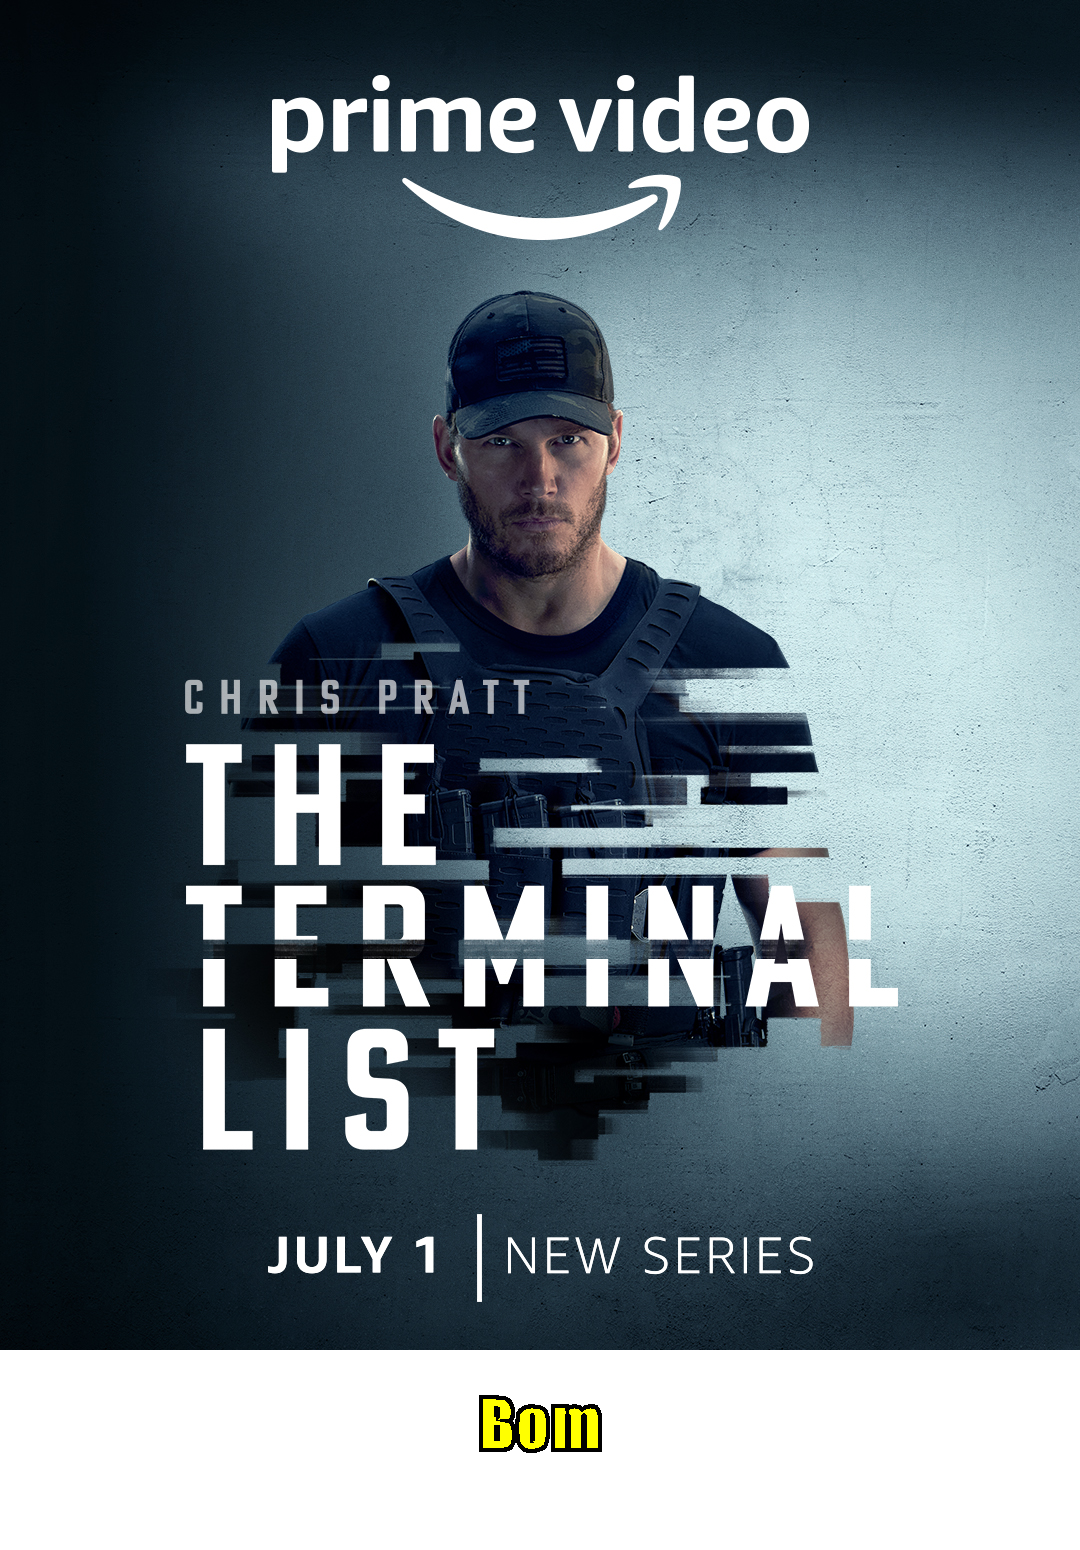
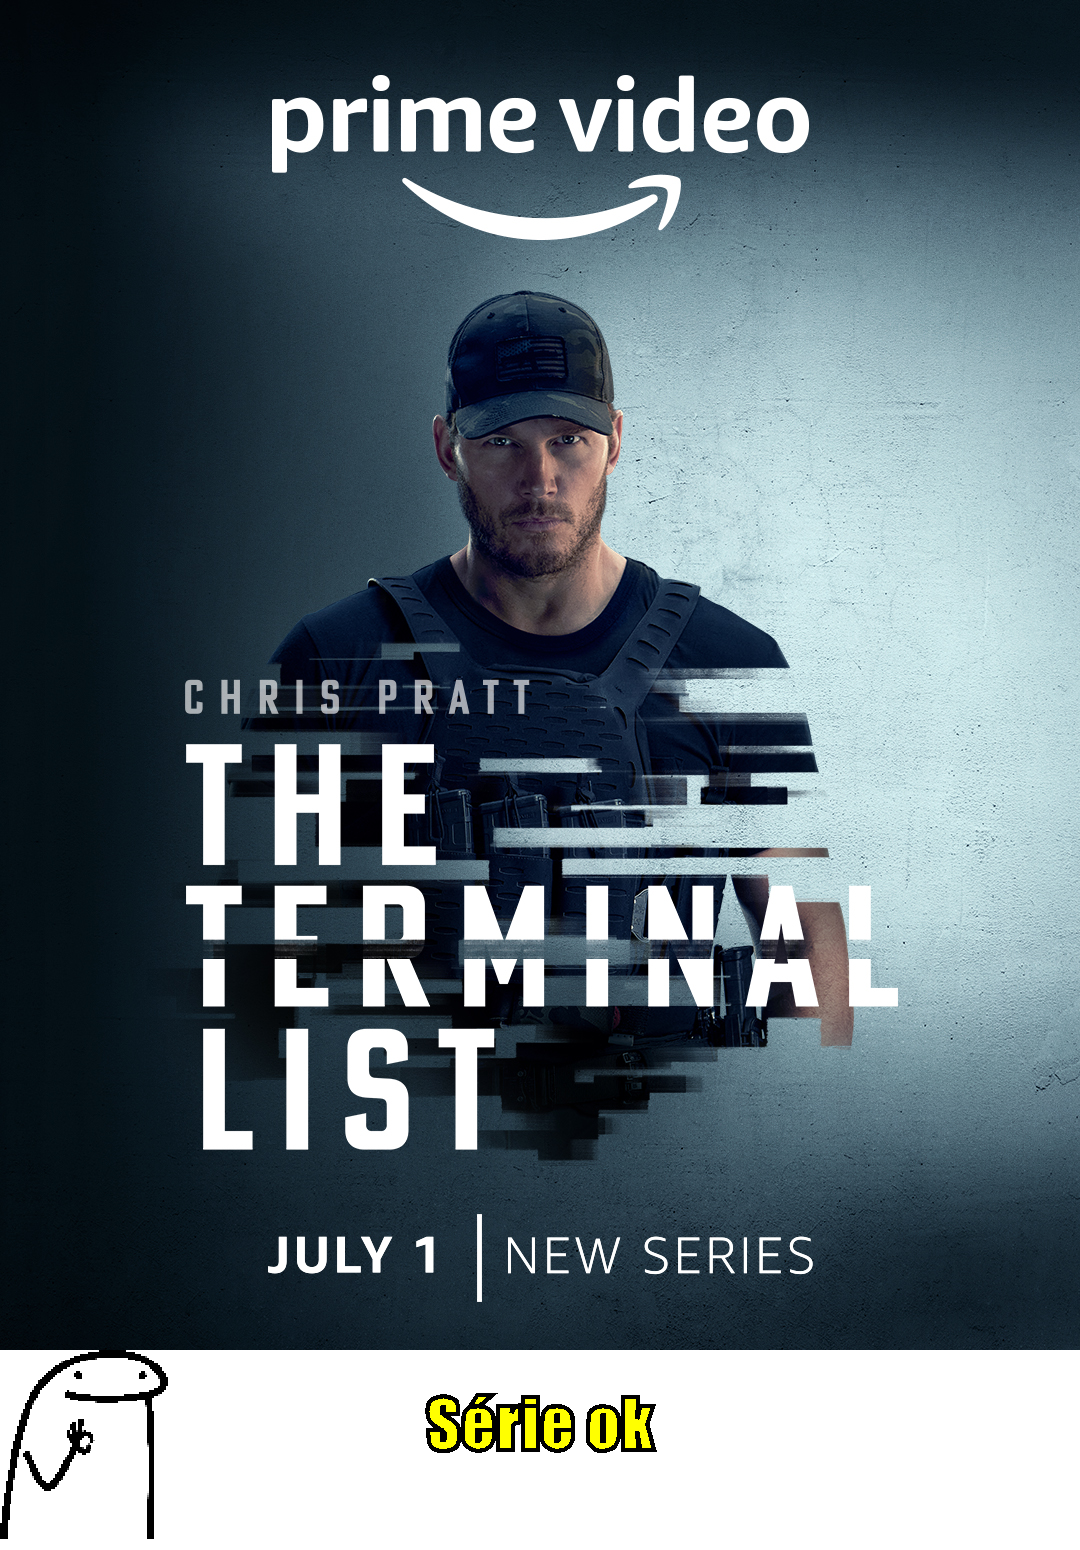
Resolucao do desafio 5 da aula 2

Changed region(s): [[0.0, 0.8671, 0.1528, 0.991], [0.3972, 0.8981, 0.6111, 0.96]]

diff --git a/imsersão-stickers/src/App.java b/imsersão-stickers/src/App.java
@@ -1,4 +1,5 @@
 import java.io.File;
+import java.io.FileInputStream;
 import java.io.InputStream;
 import java.net.URI;
 import java.net.URL;
@@ -8,6 +9,8 @@ import java.net.http.HttpResponse;
 import java.net.http.HttpResponse.BodyHandlers;
 import java.util.List;
 import java.util.Map;
+
+import javax.imageio.stream.ImageInputStream;
 
 public class App {
     public static void main(String[] args) throws Exception {
@@ -22,8 +25,8 @@ public class App {
                 // pegar somente os dados que interessam (titulo, poster, classificação)
                 var parser = new Parser();
                 List<Map<String, String>> listaDeSeries = parser.parse(body);
-                var geradora = new GeradorDeFigurinha();
                 // exibir e manupular os dados
+                var geradora = new GeradorDeFigurinha();
                 var diretorio = new File("figurinhas/");
                 diretorio.mkdir();
                 String texto = "Nem perca tempo";
@@ -38,22 +41,21 @@ public class App {
                     
                     String nota = serie.get("imDbRating");
                     double notaD = Double.parseDouble(nota);
-
-                    if (notaD == 10 || notaD>=8.5){ 
+                    InputStream meme = new FileInputStream(new File("sobreposicao/perdadetempo.png"));
+                    if (notaD>=8.5){ 
                         texto="INCRIVEL!!!";
-                    }
+                        meme = new FileInputStream(new File("sobreposicao/incrivel.png"));
+                    } else if (notaD>=6){
+                        texto="Série ok";
+                        meme = new FileInputStream(new File("sobreposicao/ok.png"));
+                    } 
+
                     
-                    if (notaD <= 8.4 || notaD<=6){ 
-                        texto="Bom";
-                    }
                     
-                    if (notaD >= 6 && notaD<=5){ 
-                        texto="Mediano";
-                    }
                     
 
 
-                    geradora.cria(inputStream, nomeArquivo, texto);
+                    geradora.cria(inputStream, nomeArquivo, texto, meme);
 
                     System.out.println("\u001b[1m \u001b[44m Titulo: \u001b[m \u001b[m" + serie.get("title"));
                     System.out.println(notaD);

diff --git a/imsersão-stickers/src/GeradorDeFigurinha.java b/imsersão-stickers/src/GeradorDeFigurinha.java
@@ -15,10 +15,10 @@ import java.io.InputStream;
 import javax.imageio.ImageIO;
 
 public class GeradorDeFigurinha {
-    public void cria(InputStream inputStream, String nomeArquivo, String texto) throws Exception{
+    public void cria(InputStream inputStream, String nomeArquivo, String texto, InputStream meme) throws Exception{
         //leitura da imagem
         BufferedImage imagemOriginal = ImageIO.read(inputStream);
-
+        BufferedImage memeSobreposto = ImageIO.read(meme);
 
         //cria nova imagem em memoria com transparencia e tamanho novo
         int largura = imagemOriginal.getWidth();
@@ -30,6 +30,8 @@ public class GeradorDeFigurinha {
         //copiar imagem original pra nova (em memória)
         Graphics2D grafico = (Graphics2D) novaImgagem.getGraphics();
         grafico.drawImage(imagemOriginal, 0, 0, null);
+        int alturaPosicaoMeme = novaAltura-memeSobreposto.getHeight();
+        grafico.drawImage(memeSobreposto, 0, alturaPosicaoMeme, null);
 
         //configurar a fonte
         var fonte = new Font("Impact", Font.BOLD, 64);
